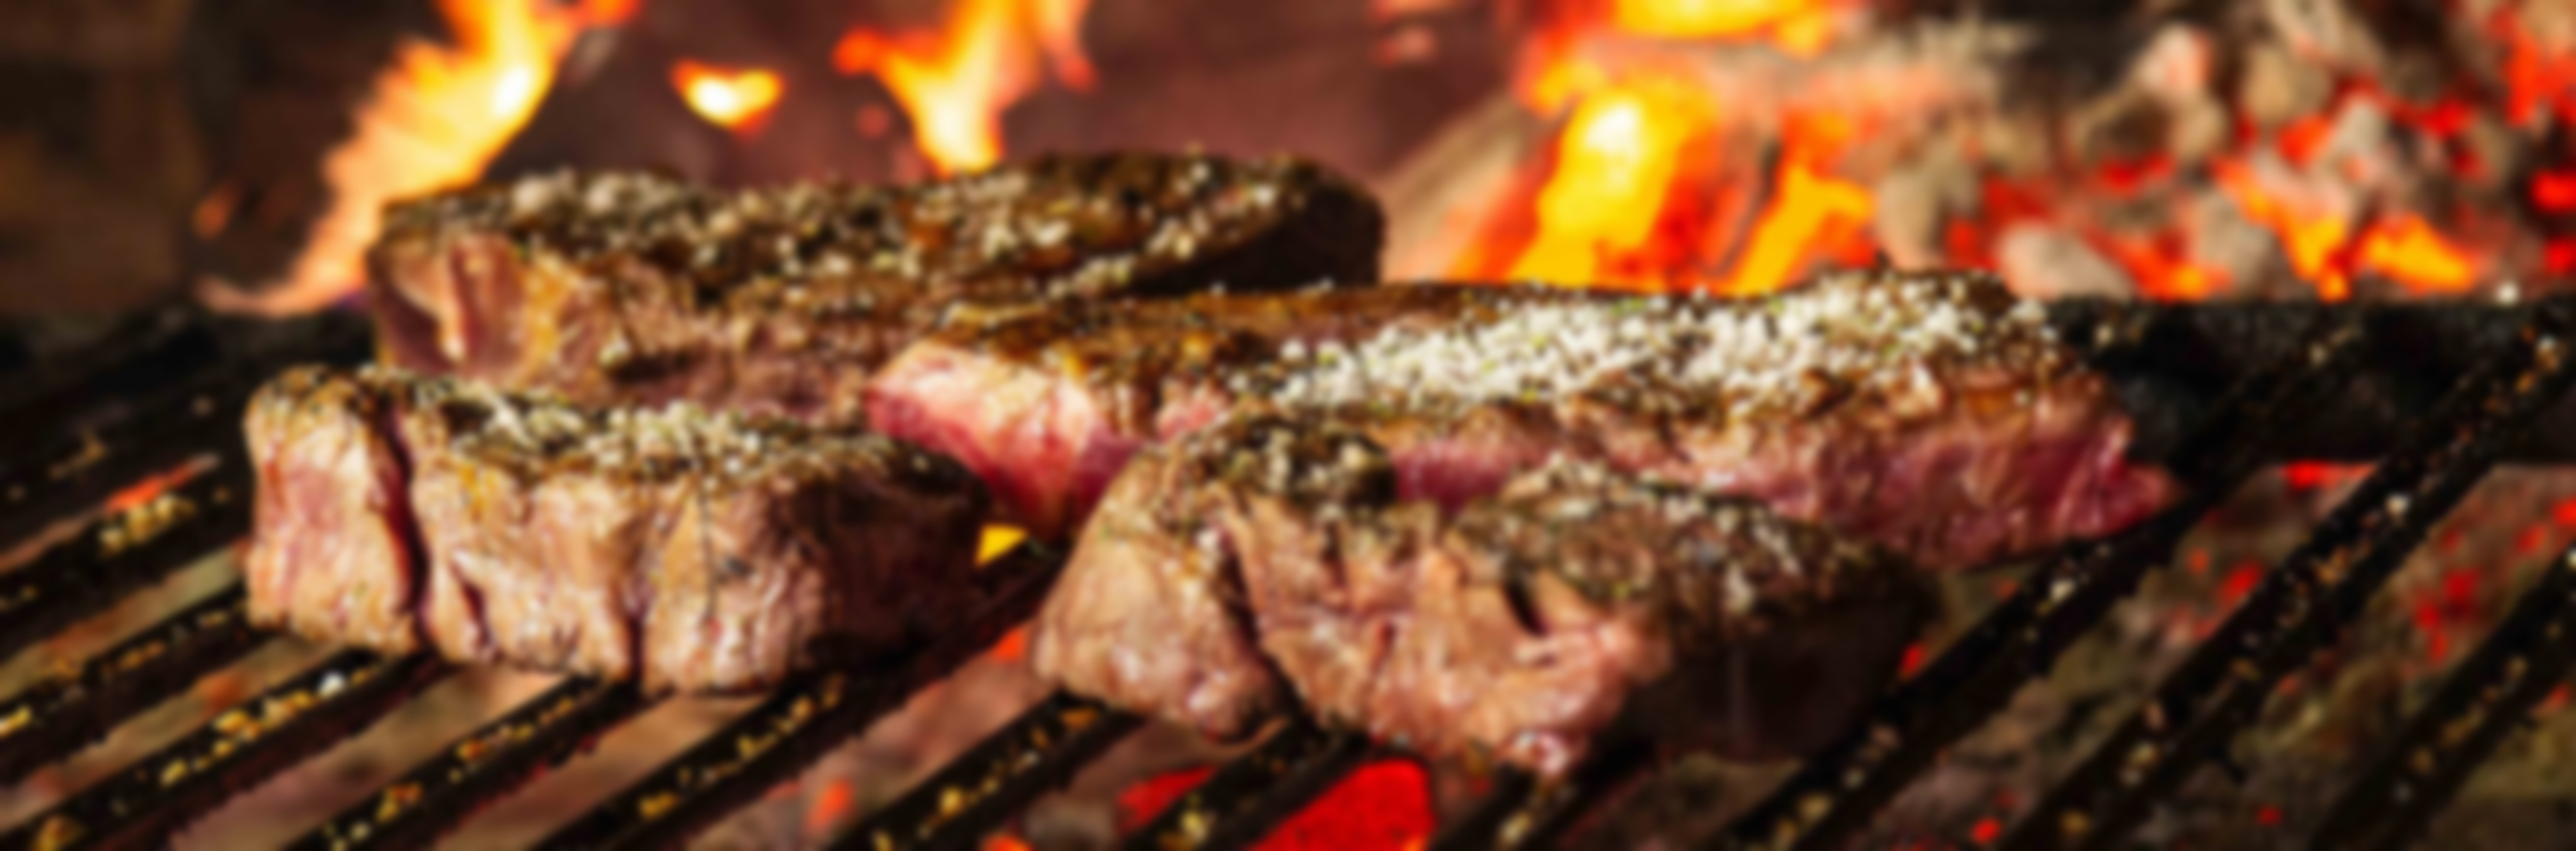
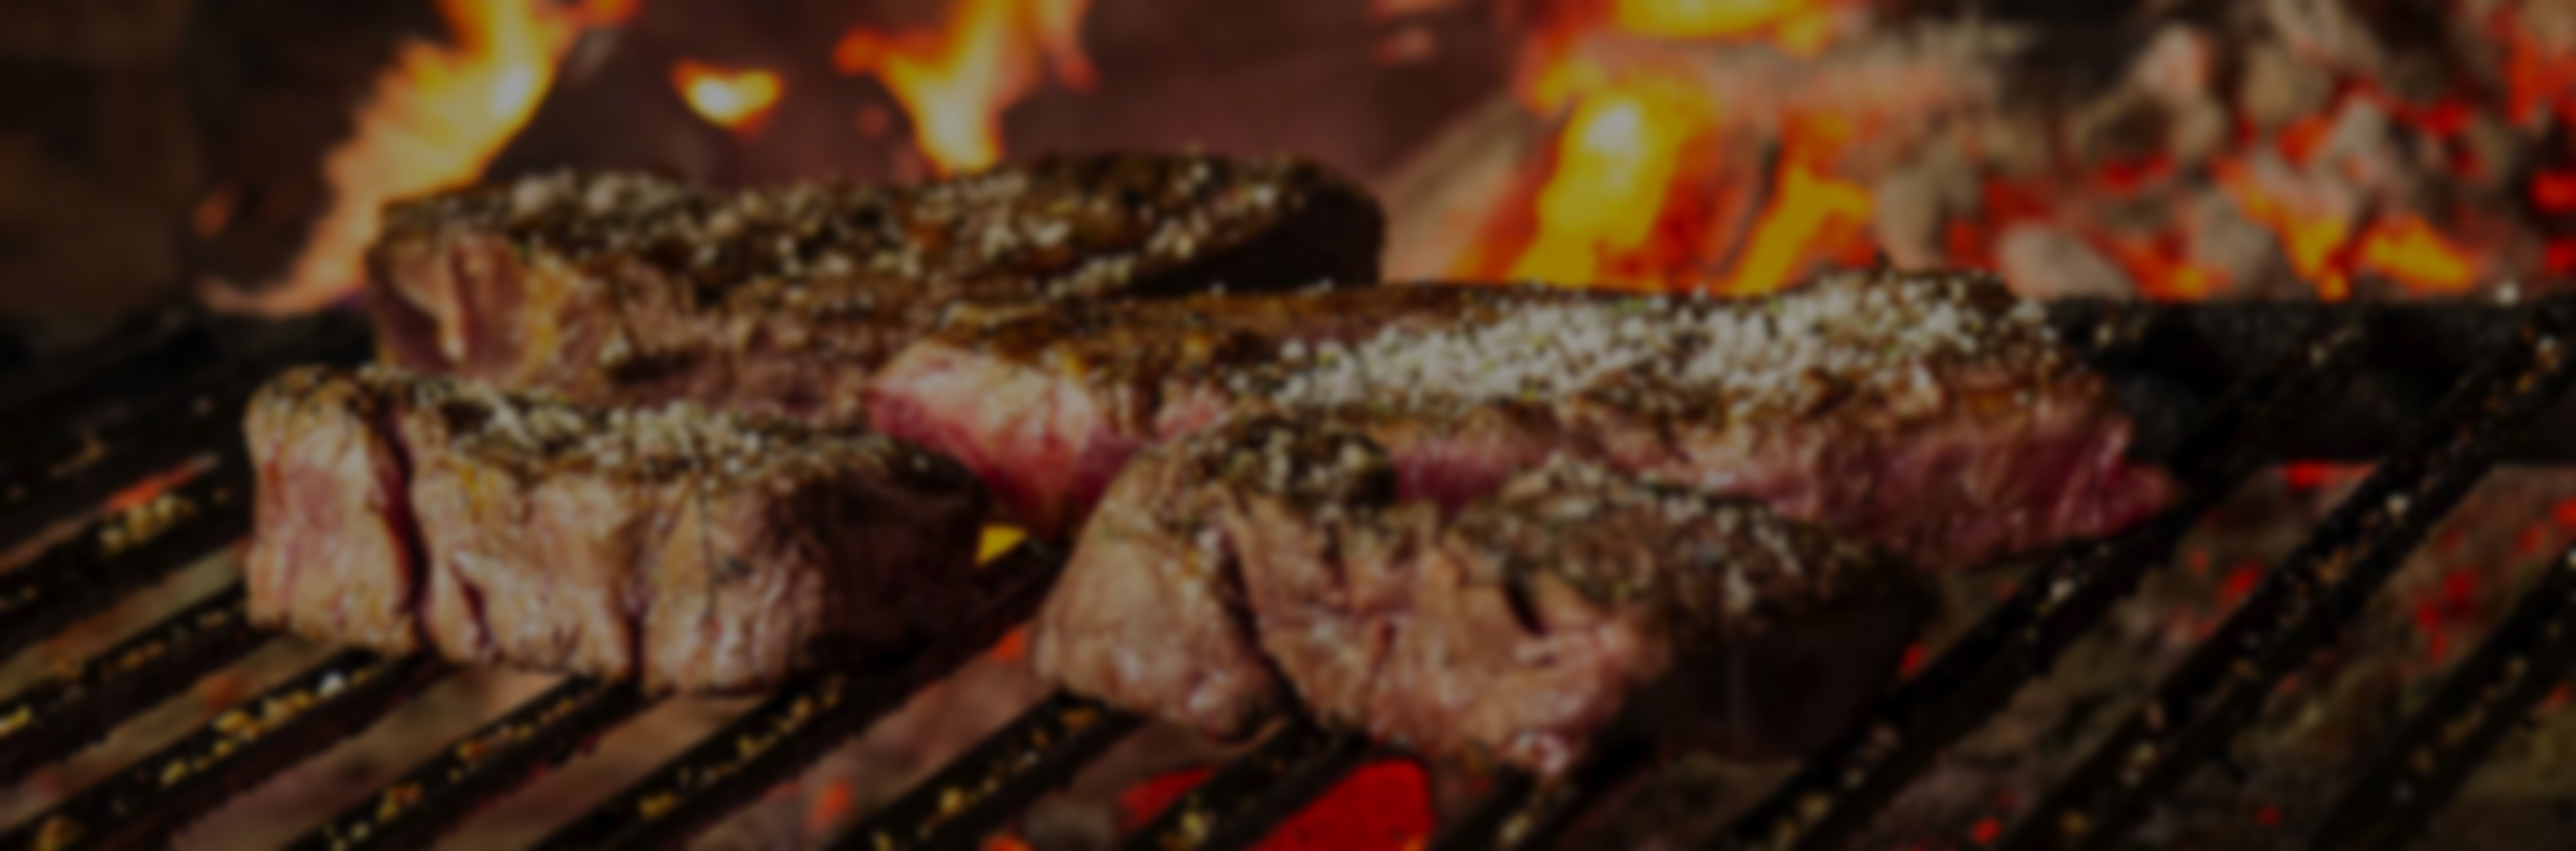
Estilo y Lista del menu

diff --git a/src/pages/menú/index.js b/src/pages/menú/index.js
@@ -2,7 +2,7 @@ import React from "react";
 import { View } from "../view/view";
 import { MainTheme } from "../../utils/colors";
 import MenuC from "../../components/PageComponentes/Menú";
-
+import { MenuList } from "../../components/PageComponentes/menuList";
 /*import {
   Container,
   Row,
@@ -13,12 +13,61 @@ import MenuC from "../../components/PageComponentes/Menú";
   CardBody
 } from 'reactstrap';*/
 
+const listProducts = (
+  <MenuList
+    products={[
+      {
+        name: 'Cereal Corn Flakes de Kelogs',
+        price: '34.5',
+        description: 'UN RICO CEREAL',
+        image: 'http://images.kglobalservices.com/www.kelloggs.com.mx/es_mx/product/kic-3670/kicproductimage-119149_corn-flakes-300g.jpg',
+      },
+      {
+        name: 'Cereal Corn Flakes de Kelogs',
+        price: '34.5',
+        description: 'UN RICO CEREAL',
+        image: 'http://images.kglobalservices.com/www.kelloggs.com.mx/es_mx/product/kic-3670/kicproductimage-119149_corn-flakes-300g.jpg',
+      },
+      {
+        name: 'Cereal Corn Flakes de Kelogs',
+        price: '34.5',
+        description: 'UN RICO CEREAL',
+        image: 'http://images.kglobalservices.com/www.kelloggs.com.mx/es_mx/product/kic-3670/kicproductimage-119149_corn-flakes-300g.jpg',
+      },
+      {
+        name: 'Cereal Zucaritas de Kelogs',
+        price: '44.5',
+        description: 'UN RICO CEREAL',
+        image: 'https://encrypted-tbn0.gstatic.com/images?q=tbn:ANd9GcTQIfRcPagOEDUiF1SDgEV4lyMJ0103dduvAg&usqp=CAU',
+      },
+      {
+        name: 'Cereal Froot Loops de Kelogs',
+        price: '34.5',
+        description: 'UN RICO CEREAL',
+        image: 'https://encrypted-tbn0.gstatic.com/images?q=tbn:ANd9GcTQIfRcPagOEDUiF1SDgEV4lyMJ0103dduvAg&usqp=CAU',
+      },
+      {
+        name: 'Cereal Froot Lope de Kelogs',
+        price: '34.5',
+        description: 'UN RICO CEREAL',
+        image: 'https://http2.mlstatic.com/D_NQ_NP_731638-MLM44700516954_012021-O.jpg',
+      },
+      {
+        name: 'Cereal Froot Lope de Kelogs',
+        price: '34.5',
+        description: 'UN RICO CEREAL',
+        image: 'https://http2.mlstatic.com/D_NQ_NP_731638-MLM44700516954_012021-O.jpg',
+      },
+    ]}
+  />
+);
+
 
 function Menu(){
 
   return(
     <View banner= {''} header = {'Header'} logged = {false} theme={MainTheme} >
-      <MenuC></MenuC>
+      {listProducts}
     </View>
   );
 }

diff --git a/src/components/PageComponentes/menuList/index.js b/src/components/PageComponentes/menuList/index.js
@@ -1,0 +1,36 @@
+import 'regenerator-runtime/runtime';
+import React, { Component } from 'react';
+import { Col, Row, Container } from 'reactstrap';
+import { Product } from '../productCard';
+import { ListContainer, CatTitle } from './styles';
+
+export class MenuList extends Component {
+  constructor(props) {
+    super(props);
+    this.state = {
+      products: props.products,
+    };
+  }
+
+
+  render() {
+    var products = this.state.products || [];
+    console.log('Products2', products);
+    return (
+      <div className='d-flex flex-column justify-content-center align-items-center'>
+        <CatTitle className='d-flex flex-row justify-content-center justify-content-lg-start col-12 col-lg-10'>
+            Categoria
+        </CatTitle>
+        <ListContainer className='d-flex flex-column flex-lg-row flex-wrap justify-content-center align-items-center col-12 col-lg-10'>
+        {products.map((x, i) => (
+          <div key={i}>
+            <Product image={x.image} {...x}></Product>
+          </div>
+          ))}
+        </ListContainer>
+
+      </div>
+
+    );
+  }
+}

diff --git a/src/components/PageComponentes/productCard/styles.js b/src/components/PageComponentes/productCard/styles.js
@@ -32,7 +32,7 @@ export const ProductCard = styled.div`
 }
 `;
 
-export const ProductTitle = styled.h1`
+export const ProductTitle = styled.div`
   color: black;
   font-weight: bold;
   font-variant-caps: all-small-caps;
@@ -41,6 +41,7 @@ export const ProductTitle = styled.h1`
 `;
 
 export const ProductPrice = styled.div`
+  font-variant-caps: all-small-caps;
   color: black;
   font-size: 20px;
   font-weight: bold;
@@ -67,12 +68,13 @@ export const ProductImage = styled.img`
   transition: all 300ms ease;
 `;
 
-export const ProductButton = styled.div`
+export const ProductButton = styled(Link)`
   border: none;
   outline: 0;
   border-top: 1px solid gray;
   padding: 12px;
   color: white;
+  text-decoration: none;
   width: 100%;
   background-color: black;
   text-align: center;
@@ -86,5 +88,6 @@ export const ProductButton = styled.div`
   transition: all 300ms;
   &:hover {
     opacity: 0.8;
+    color: white;
   }
 `;

diff --git a/src/components/PageComponentes/productView/styles.js b/src/components/PageComponentes/productView/styles.js
@@ -5,7 +5,6 @@ import { Container, Row, Col} from 'reactstrap';
 export const ProductContainer = styled(Container)`
 display: flex;
 border-radius: 20px;
-background-color: white;
 width: 100%;
 margin-bottom: 20px;
 background-color: #753232;
@@ -15,7 +14,6 @@ background-color: #753232;
 export const MainContainer = styled(Container)`
 display: flex;
 border-radius: 20px;
-background-color: white;
 width: 100%;
 margin-bottom: 20px;
 `;
@@ -55,7 +53,7 @@ border: none;
 `;
 
 
-export const ProductText = styled.h2`
+export const ProductText = styled.div`
 font-size: 30px;
 margin: 20px;
 font-weight: bold;
@@ -65,9 +63,10 @@ export const ProductDesc = styled.span`
 font-size: 20px;
 `;
 
-export const ProductTitle = styled.h1`
+export const ProductTitle = styled.div`
 color: white;
 margin-bottom: 20px;
 font-size: 55px;
+font-weight: bold;
 `;
 

diff --git a/src/components/PageComponentes/Cart/styles.js b/src/components/PageComponentes/Cart/styles.js
@@ -3,8 +3,9 @@ import styled from "styled-components";
 export const ContainerCart = styled.div`
 display: flex;
 flex-direction: column;
-color: black;
+color: white;
 font-variant-caps: all-small-caps;
+margin-bottom: 20px;
 `;
 
 export const TotalSection = styled.div`
@@ -12,12 +13,12 @@ background-color: #753232;
 color: white;
 max-height: 200px;
 padding: 15px;
-margin-top: 20px;
 border-radius: 8px;
 font-variant-caps: all-small-caps;
 box-shadow: 0  0 10px 0 gray;
 justify-content: center;
 align-items: center;
+margin: 20px;
 `;
 
 export const TitleCart = styled.div`
@@ -88,7 +89,7 @@ transition: all 250ms ease;
 export const CartProductTitle = styled.div`
 font-size: 25px;
 font-weight: bold;
-color: black;
+color: white;
 `;
 
 export const CartProductBtn = styled.button`

diff --git a/src/components/PageComponentes/Footer/styles.js b/src/components/PageComponentes/Footer/styles.js
@@ -5,7 +5,7 @@ export const FooterComp = styled.div`
   bottom: 0;
   left: 0;
   width: 100%;
-  background-color: #ff2929;
+  background-color: black;
   color: #fe9999;
   text-align: center;
   margin-top: auto;
@@ -13,7 +13,7 @@ export const FooterComp = styled.div`
 
 export const TopNav = styled.div`
   width: 100%;
-  background-color: #ff2929 ;
+  background-color: black ;
   overflow: hidden;
 `;
 
@@ -25,14 +25,14 @@ export const TopNavLink = styled.a`
   padding: 24px 16px;
   text-decoration: none;
   font-size: 17px;
-
+  transition: all 300ms;
 
   &:hover {
-    background-color: #fe9999 ;
+    background-color:  #d9d9d9 ;
     color: black;
   }
   &active {
-    background-color: #fe9999 ;
+    background-color:  #d9d9d9 ;
     color: white;
   }
 `;

diff --git a/src/pages/register/index.js b/src/pages/register/index.js
@@ -1,7 +1,7 @@
 import React from "react";
 import { View } from "../view/view";
 import RegisterForm from "../../components/Forms/registerForm";
-import { MainTheme } from "../../utils/colors";
+import { AltTheme } from "../../utils/colors";
 
 import { useNavigate } from "react-router-dom";
 //import Footer from "../../components/PageComponentes/Footer";
@@ -23,7 +23,7 @@ function Register(){
   let nav = useNavigate();
 
   return(
-    <View banner= {'Prueba'} header = {'Header'} theme={MainTheme}>
+    <View banner= {'Prueba'} header = {'Header'} theme={AltTheme}>
       <ContenedorLogin fluid className="col-11 col-sm-8 col-lg-5 col-xl-4 my-5" >
         <Container className="d-flex flex-row justify-content-center">
           <CardImg

diff --git a/src/pages/profile/index.js b/src/pages/profile/index.js
@@ -1,7 +1,7 @@
 import React from "react";
 import { View } from "../view/view";
 import ProfileForm from "../../components/Forms/profileForm";
-import { MainTheme } from "../../utils/colors";
+import { AltTheme } from "../../utils/colors";
 
 
 //import Footer from "../../components/PageComponentes/Footer";
@@ -23,7 +23,7 @@ function Profile(){
 
 
   return(
-    <View banner= {'Prueba'} header = {'Header'} theme={MainTheme}>
+    <View banner= {''} header = {'Header'} theme={AltTheme}>
       <ContenedorLogin fluid className="col-11 col-sm-8 col-lg-5 col-xl-4 my-5" >
         <Container className="d-flex flex-row justify-content-center">
           <CardImg

diff --git a/src/components/PageComponentes/menuList/styles.js b/src/components/PageComponentes/menuList/styles.js
@@ -1,0 +1,19 @@
+import { Link } from 'react-router-dom';
+import styled from 'styled-components';
+
+export const ListContainer = styled.div`
+  background-color: #753232;
+  font-variant-caps: all-small-caps;
+  border-radius: 20px;
+  box-shadow: 0  0 10px 0 black;
+
+
+`;
+
+export const CatTitle = styled.div`
+  color: white;
+  font-size: 50px;
+  font-variant-caps: all-small-caps;
+  font-weight: bold;
+  font-family: var(--bs-body-font-family);
+`;

diff --git a/src/utils/colors.js b/src/utils/colors.js
@@ -1,6 +1,8 @@
 import bgCarne from "../res/fondocarne.jpg"
+import bgAlt from "../res/background2.jpg"
 export const LoginTheme = 'Login';
 export const MainTheme = 'Main';
+export const AltTheme = 'Alternate';
 
 export const pageColors = {
   Login: {
@@ -8,5 +10,8 @@ export const pageColors = {
   },
   Main: {
     bgImg: 'none',
+  },
+  Alternate: {
+    bgImg: bgAlt,
   }
 };

diff --git a/src/components/PageComponentes/productCard/index.js b/src/components/PageComponentes/productCard/index.js
@@ -21,7 +21,7 @@ export const Product = ({ name, price, description, image }) => {
           <ProductDescription>{description}</ProductDescription>
         </DetailsCont>
       </ProductContainer>
-      <ProductButton>Ver producto</ProductButton>
+      <ProductButton to={`/product/${name}`}>Ver producto</ProductButton>
     </ProductCard>
   );
 };

diff --git a/src/pages/view/styles.js b/src/pages/view/styles.js
@@ -7,6 +7,7 @@ export const MainContainer = styled(Container)`
   width: 100%;
   background-position: center;
   background-size: cover;
+  background-color: #2e2e2e;
   overflow: auto;
   display: flex;
   flex-direction: column;
